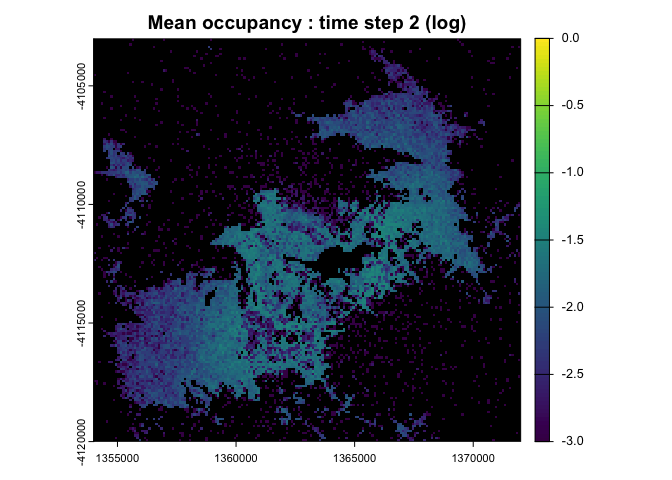
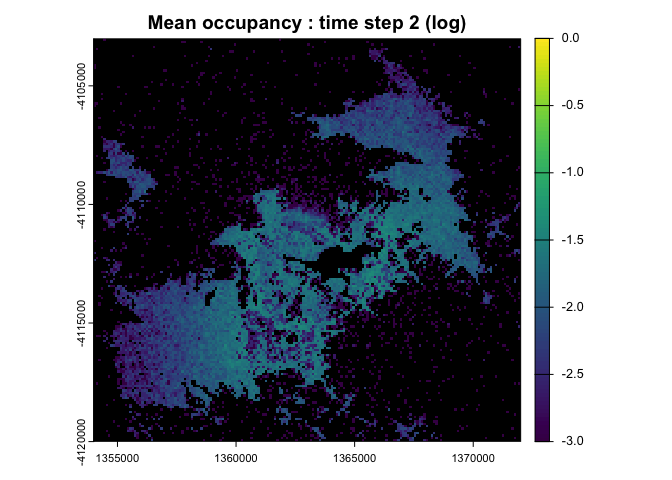
Update readme managed example

diff --git a/README.md b/README.md
@@ -874,7 +874,7 @@ carrying capacity at each location.
 ``` r
 # Environmental impacts estimated via 20% loss in habitat condition
 hcas_rast <- terra::rast("../downloaded_data/HCAS33_HCB_1988_2024.tif")
-hcas_rast <- 1 - terra::resample(
+hcas_rast <- terra::resample(
   terra::project(terra::crop(hcas_rast,
                              c(1354000, 1372000, -4120000, -4103000)),
                  region_nvis_rast), region_nvis_rast)
@@ -952,7 +952,7 @@ result_rast
 #>               occupancy_t2_mean.tif  
 #> names       :     0,     1,     2 
 #> min values  : 0.000, 0.000, 0.000 
-#> max values  : 0.034, 0.304, 0.846 
+#> max values  : 0.039, 0.304, 0.859 
 #> 
 #> $`impacts_non-monetary_HCAS_mean`
 #> class       : SpatRaster 
@@ -965,7 +965,7 @@ result_rast
 #>               impacts_non-monetary_HCAS_t2_mean.tif  
 #> names       :           0,          1,         2 
 #> min values  : 0.000000000, 0.00000000, 0.0000000 
-#> max values  : 0.006237028, 0.05308106, 0.1633263 
+#> max values  : 0.004262021, 0.02293879, 0.1007508 
 #> 
 #> $`impacts_non-monetary_HCAS_sd`
 #> class       : SpatRaster 
@@ -976,9 +976,9 @@ result_rast
 #> sources     : impacts_non-monetary_HCAS_t0_sd.tif  
 #>               impacts_non-monetary_HCAS_t1_sd.tif  
 #>               impacts_non-monetary_HCAS_t2_sd.tif  
-#> names       :          0,         1,          2 
-#> min values  : 0.00000000, 0.0000000, 0.00000000 
-#> max values  : 0.03432082, 0.0866648, 0.09624621
+#> names       :          0,          1,          2 
+#> min values  : 0.00000000, 0.00000000, 0.00000000 
+#> max values  : 0.02559808, 0.05399875, 0.07893027
 # Plot the mean occupancy for time steps 0, 1 and 2
 label <- attr(result_rast$occupancy_mean, "metadata")$label
 for (i in 1:3) {
@@ -1025,21 +1025,21 @@ results$save_csv()
 total_occupancy <- read.csv("total_occupancy.csv")
 colnames(total_occupancy)[1] <- "Total occupancy"
 print(total_occupancy)
-#>   Total occupancy t0        t1        t2
-#> 1            mean  1 22.233000 439.92400
-#> 2              sd  0  4.626675  96.07942
+#>   Total occupancy t0        t1       t2
+#> 1            mean  1 22.343000 443.9320
+#> 2              sd  0  4.708239  95.9998
 total_area_occupied <- read.csv("total_area_occupied.csv")
 colnames(total_area_occupied)[1] <- "Total area occupied"
 print(total_area_occupied)
-#>   Total area occupied    t0        t1        t2
-#> 1                mean 10000 222330.00 4399240.0
-#> 2                  sd     0  46266.75  960794.2
+#>   Total area occupied    t0        t1      t2
+#> 1                mean 10000 223430.00 4439320
+#> 2                  sd     0  47082.39  959998
 total_impacts <- read.csv("total_impacts_non-monetary_HCAS.csv")
 colnames(total_impacts)[1] <- "Total non-monetary impacts"
 print(total_impacts)
-#>   Total non-monetary impacts        t0        t1        t2
-#> 1                       mean 0.1314119 2.3386164 39.057946
-#> 2                         sd 0.0480558 0.5489788  8.318391
+#>   Total non-monetary impacts         t0        t1       t2
+#> 1                       mean 0.07205267 2.1068120 49.38869
+#> 2                         sd 0.04776766 0.4892155 10.93326
 ```
 
 Time-series plots of total occupancy, total area occupied, and total
@@ -1159,7 +1159,7 @@ result_rast
 #>               occupancy_t2_mean.tif  
 #> names       :     0,     1,     2 
 #> min values  : 0.000, 0.000, 0.000 
-#> max values  : 0.031, 0.039, 0.047 
+#> max values  : 0.031, 0.034, 0.049 
 #> 
 #> $`impacts_non-monetary_HCAS_mean`
 #> class       : SpatRaster 
@@ -1172,7 +1172,7 @@ result_rast
 #>               impacts_non-monetary_HCAS_t2_mean.tif  
 #> names       :           0,          1,          2 
 #> min values  : 0.000000000, 0.00000000, 0.00000000 
-#> max values  : 0.005926928, 0.05444211, 0.04665956 
+#> max values  : 0.004315573, 0.02296502, 0.01949047 
 #> 
 #> $`impacts_non-monetary_HCAS_sd`
 #> class       : SpatRaster 
@@ -1183,9 +1183,9 @@ result_rast
 #> sources     : impacts_non-monetary_HCAS_t0_sd.tif  
 #>               impacts_non-monetary_HCAS_t1_sd.tif  
 #>               impacts_non-monetary_HCAS_t2_sd.tif  
-#> names       :          0,          1,          2 
-#> min values  : 0.00000000, 0.00000000, 0.00000000 
-#> max values  : 0.03315338, 0.08734528, 0.08307285 
+#> names       :          0,          1,         2 
+#> min values  : 0.00000000, 0.00000000, 0.0000000 
+#> max values  : 0.02543958, 0.05491053, 0.0504461 
 #> 
 #> $actions_1_detected_mean
 #> class       : SpatRaster 
@@ -1198,7 +1198,7 @@ result_rast
 #>               actions_1_detected_t2_mean.tif  
 #> names       : 0,     1,     2 
 #> min values  : 0, 0.000, 0.000 
-#> max values  : 0, 0.304, 0.254 
+#> max values  : 0, 0.266, 0.246 
 #> 
 #> $actions_2_removed_mean
 #> class       : SpatRaster 
@@ -1211,7 +1211,7 @@ result_rast
 #>               actions_2_removed_t2_mean.tif  
 #> names       : 0,     1,     2 
 #> min values  : 0, 0.000, 0.000 
-#> max values  : 0, 0.295, 0.242
+#> max values  : 0, 0.254, 0.232
 # Plot the mean occupancy and impacts for time steps 2
 label <- attr(result_rast$occupancy_mean, "metadata")$label
 terra::plot(log(result_rast$occupancy_mean[[3]], base = 10), colNA = "black",
@@ -1269,36 +1269,36 @@ total_occupancy[,1] <- c("unmanaged", "managed")
 total_occupancy[2, 2:4] <- total_occupancy_managed[1, 2:4]
 print(total_occupancy)
 #>   Total mean occupancy t0     t1      t2
-#> 1            unmanaged  1 22.233 439.924
-#> 2              managed  1  6.743 102.206
+#> 1            unmanaged  1 22.343 443.932
+#> 2              managed  1  6.850 104.824
 total_area_occupied_managed <- read.csv("total_area_occupied.csv")
 colnames(total_area_occupied)[1] <- "Total mean area occupied"
 total_area_occupied[,1] <- c("unmanaged", "managed")
 total_area_occupied[2, 2:4] <- total_area_occupied_managed[1, 2:4]
 print(total_area_occupied)
 #>   Total mean area occupied    t0     t1      t2
-#> 1                unmanaged 10000 222330 4399240
-#> 2                  managed 10000  67430 1022060
+#> 1                unmanaged 10000 223430 4439320
+#> 2                  managed 10000  68500 1048240
 total_impacts_managed <- read.csv("total_impacts_non-monetary_HCAS.csv")
 colnames(total_impacts)[1] <- "Total mean impacts"
 total_impacts[,1] <- c("unmanaged", "managed")
 total_impacts[2, 2:4] <- total_impacts_managed[1, 2:4]
 print(total_impacts)
-#>   Total mean impacts        t0       t1       t2
-#> 1          unmanaged 0.1314119 2.338616 39.05795
-#> 2            managed 0.1297683 2.339835 13.92141
+#>   Total mean impacts         t0       t1       t2
+#> 1          unmanaged 0.07205267 2.106812 49.38869
+#> 2            managed 0.06843477 2.100852 19.02699
 total_detected <- read.csv("total_actions_1_detected.csv")
 colnames(total_detected)[1] <- "Total detected"
 print(total_detected)
-#>   Total detected t0        t1       t2
-#> 1           mean  0 16.262000 64.14800
-#> 2             sd  0  4.105876 30.47367
+#>   Total detected t0      t1       t2
+#> 1           mean  0 16.1290 64.14100
+#> 2             sd  0  4.2176 30.01053
 total_removed <- read.csv("total_actions_2_removed.csv")
 colnames(total_removed)[1] <- "Total removed"
 print(total_removed)
 #>   Total removed t0        t1       t2
-#> 1          mean  0 15.390000 60.92100
-#> 2            sd  0  3.981174 29.14134
+#> 1          mean  0 15.352000 60.91400
+#> 2            sd  0  4.150822 28.62618
 ```
 
 Time-series plots of total occupancy, total area occupied, total
